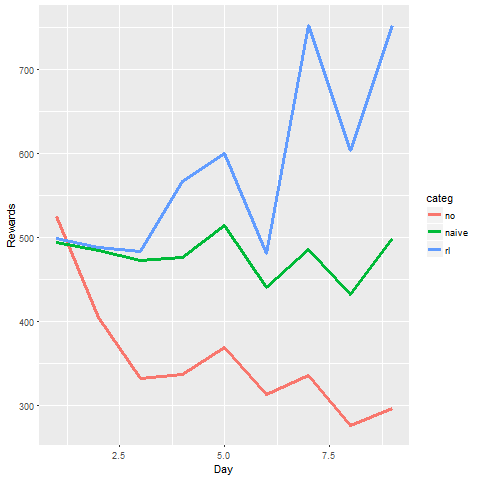
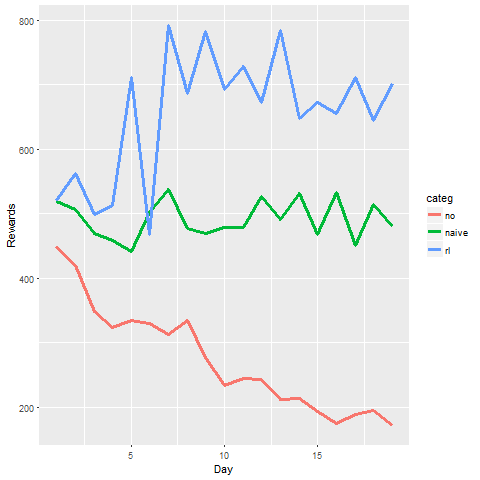
add days

diff --git a/Scheduler.py b/Scheduler.py
@@ -4,13 +4,14 @@ import numpy as np
 
 
 class Scheduler:
-    def __init__(self, total, n, p, alpha):
+    def __init__(self, total, n, p, alpha, beta):
         # self.opt = opt
         self.station_num = n
         self.time = p
         self.total = total
         self.station_table = init_table(n, p)
         self.alpha = alpha
+        self.beta = beta
         self.last_assignment = np.array([0] * n)
         self.virtual_model = init_table(n, p)
         self.last_q = 0
@@ -39,7 +40,7 @@ class Scheduler:
 
             true_rewards = sum(usage_vector)
             diff = true_rewards - Q_val
-            self.w1 = self.w1 + self.alpha*diff*f[0]
+            self.w1 = self.w1 + self.beta*diff*f[0]
             # self.w1 = 1
             # find action(generating)
             # print(self.w1)

diff --git a/Bike.py b/Bike.py
@@ -12,7 +12,7 @@ NUM_STATIONS = 12
 INIT_NUM = 100
 NUM_BIKES = NUM_STATIONS * INIT_NUM
 SLICES = 72
-TIME = 7250
+TIME = 14500
 
 CALL_SCHEDULER = []
 
@@ -21,7 +21,7 @@ REWARDS = []
 ALL_FLOWS = []
 TOTAL_REWARDS_EACHDAY = []
 
-algo = Scheduler.Scheduler(NUM_BIKES, NUM_STATIONS, SLICES, 0.5)
+algo = Scheduler.Scheduler(NUM_BIKES, NUM_STATIONS, SLICES, 0.5, 0.1)
 
 def init_samples():
     if len(SAMPLES) == 0:
